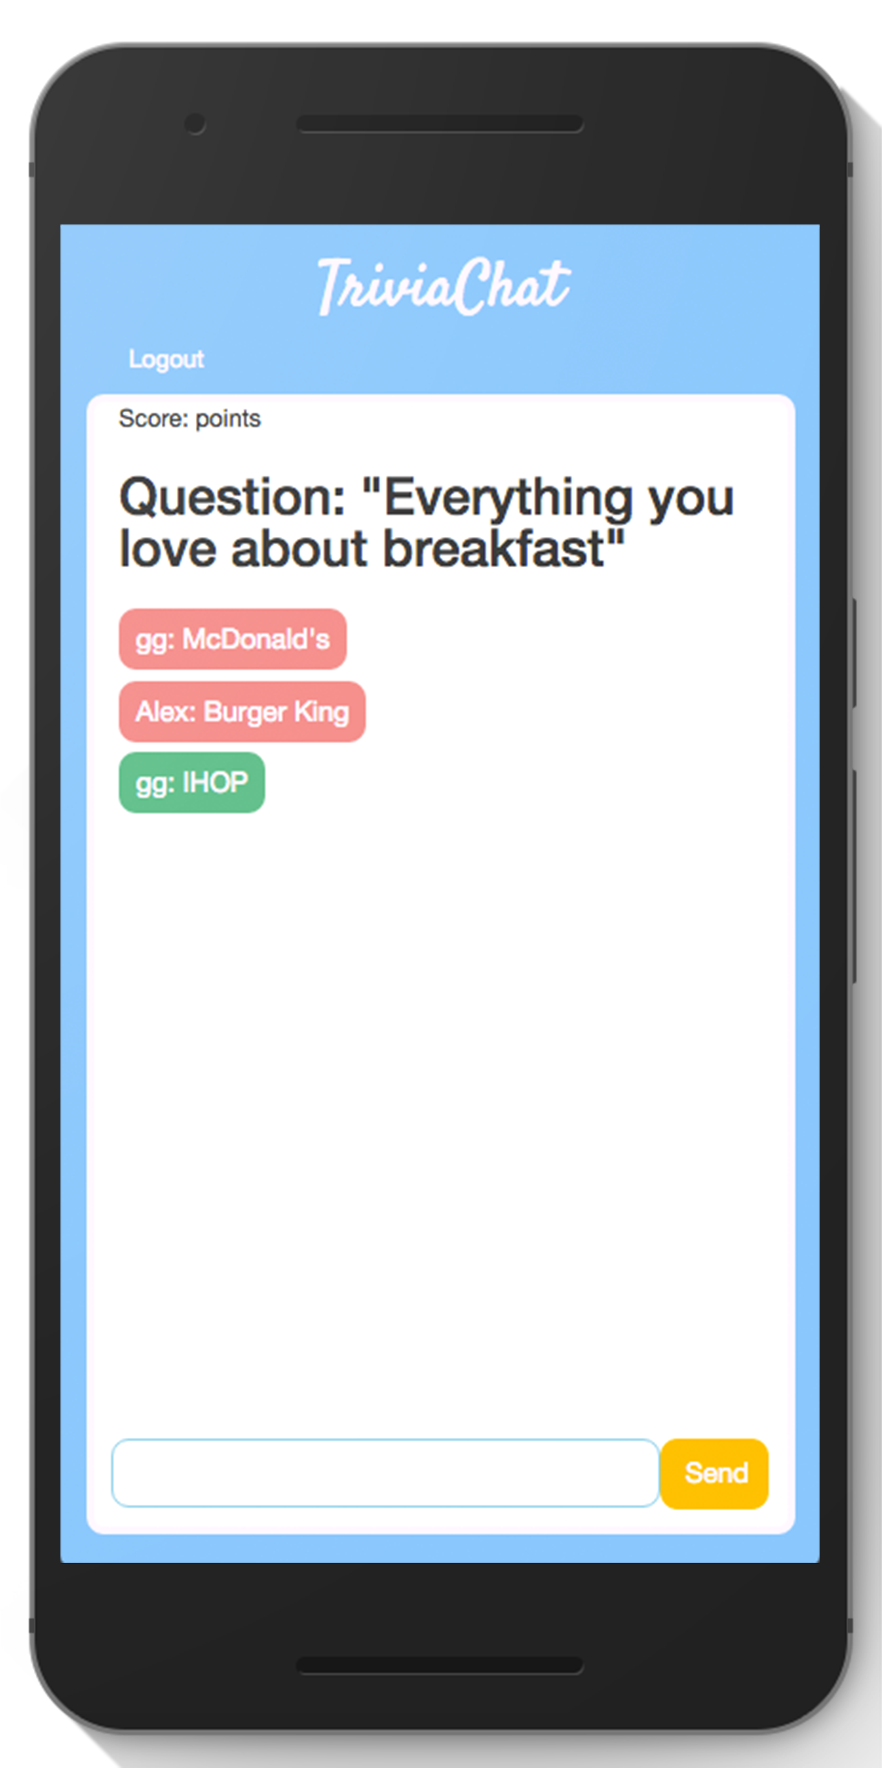
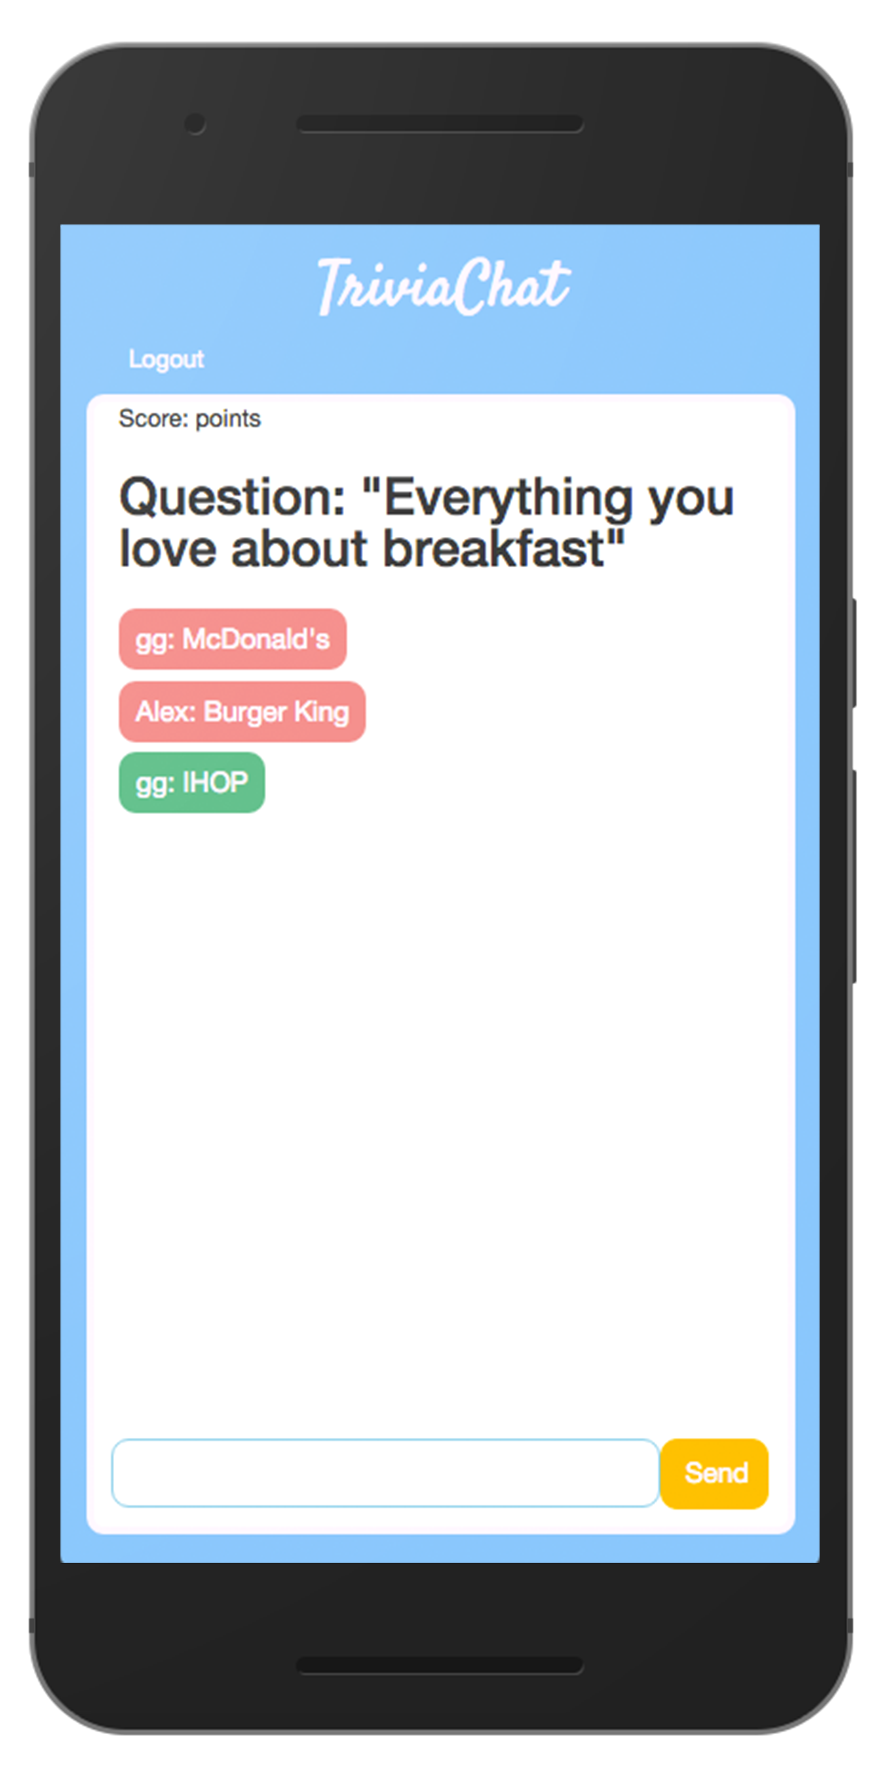
Adding TriviaChat Mockup without Shadow

Changed region(s): [[0.0918, 0.0311, 1.0, 1.0]]

diff --git a/index.html b/index.html
@@ -240,7 +240,8 @@
           <div id="pianocubes-presentation" class="app-presentation col-xs-12 col-sm-12 col-md-12 col-lg-12">
             <h5>Stimulate Your Hears</h5>
             <p class="p-text col-md-8 col-md-offset-2 col-lg-6 col-lg-offset-3">Piano Cubes is an educational music game. After clicking on the play button, the user has to listen the musical note randomly played by the computer.</br>
-            Three levels of difficulty are available. If the user guesses correctly, the computer will play another extra note. Otherwise, the user will loose a life.
+            Three levels of difficulty are available. If the user guesses correctly, the computer will play another extra note. Otherwise, the user will loose a life.</br>
+            Technology Used: HTML, 3D CSS, Javascript, Sound Manager, Heroku
             </p>
             <div class="row col-xs-12 col-sm-12 col-md-12 col-lg-12">
               <a class="link-box col-md-3 col-md-offset-3 col-lg-2 col-lg-offset-4" href="https://pianocube.herokuapp.com/" target="_blank">The App</a>
@@ -257,7 +258,8 @@
           <div id="uply-presentation" class="app-presentation col-xs-12 col-sm-12 col-md-12 col-lg-12">
             <h5>Invite Your Friends</h5>
             <p class="p-text col-md-8 col-md-offset-2 col-lg-6 col-lg-offset-3">Uply is an online social network dedicated to make in real life interractions with your friends easier.</br>
-            Instead of texting your friends in group messages or creating Facebook events to gather your mates, ask them simply if they want to join you for any occasion such as a drink, sushi or a football game.
+            Instead of texting your friends in group messages or creating Facebook events to gather your mates, ask them simply if they want to join you for any occasion such as a drink, sushi or a football game.</br>
+            Technology Used: Rails, Ruby, PostgreSQL, Foundation, Javascript, Heroku
             </p>
             <div class="row col-xs-12 col-sm-12 col-md-12 col-lg-12">
               <a class="link-box col-md-3 col-md-offset-3 col-lg-2 col-lg-offset-4" href="http://upperly.herokuapp.com" target="_blank">The App</a>
@@ -265,6 +267,24 @@
             </div>
           </div>
         </div>
+
+        <div id="triviachat" class="app-container col-xs-12 col-sm-12 col-md-12 col-lg-12">
+          <div id="trivia-showcase" class="showcase col-xs-12 col-sm-12 col-md-12 col-lg-12">
+            <img src="./pictures/apps/triviachat-mockup.png" id="triviachat-phone"class="col-xs-12 col-sm-10 col-sm-offset-1 col-md-8 col-md-pull-2 col-lg-3 col-lg-offset-2">
+            <h4 id="triviachat-title" class="app-title col-xs-12 col-sm-12 col-md-3 col-md-pull-1 col-lg-3">TriviaChat</h4>
+          </div>
+          <div id="triviachat-presentation" class="app-presentation col-xs-12 col-sm-12 col-md-12 col-lg-12">
+            <h5>Test Your Culture</h5>
+            <p class="p-text col-md-8 col-md-offset-2 col-lg-6 col-lg-offset-3">TriviaChat is an Online Chat allowing players to play against eacher other answering Trivia questions</br>
+            Technology Used: Node.JS, Angular, MongoDB, Socket.io, Trivia API, Heroku
+            </p>
+            <div class="row col-xs-12 col-sm-12 col-md-12 col-lg-12">
+              <a class="link-box col-md-3 col-md-offset-3 col-lg-2 col-lg-offset-4" href="https://triviachat.herokuapp.com/" target="_blank">The App</a>
+              <a class="link-box col-md-3 col-md-offset-1 col-lg-2 col-lg-offset-1" href="https://github.com/gvialpai/wdi16-project4" target="_blank">Github</a>
+            </div>
+          </div>
+        </div>
+
       </div>
 
       <div id="projects" class="col-xs-12 col-sm-12 col-md-12 col-lg-12">

diff --git a/css/style.css b/css/style.css
@@ -267,6 +267,10 @@ h5{
   color: white;
 }
 
+#trivia-showcase {
+    background-color: #65C28E;
+}
+
 span.roll {
   background:url(../pictures/icons/mag.png) center center no-repeat #000;
   height: 200px;
